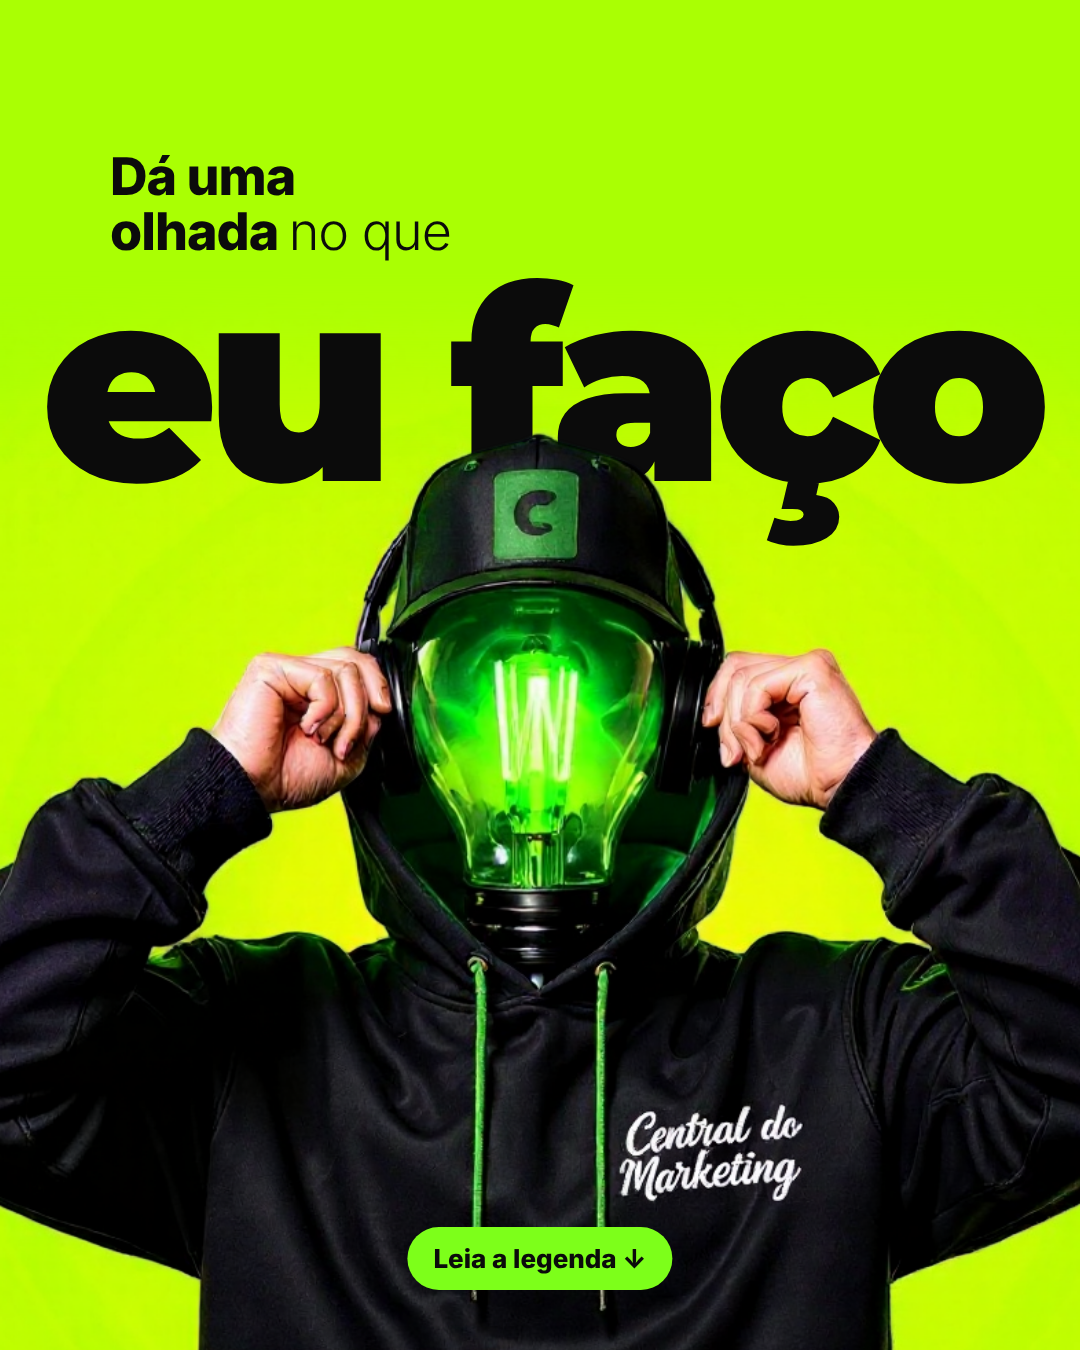
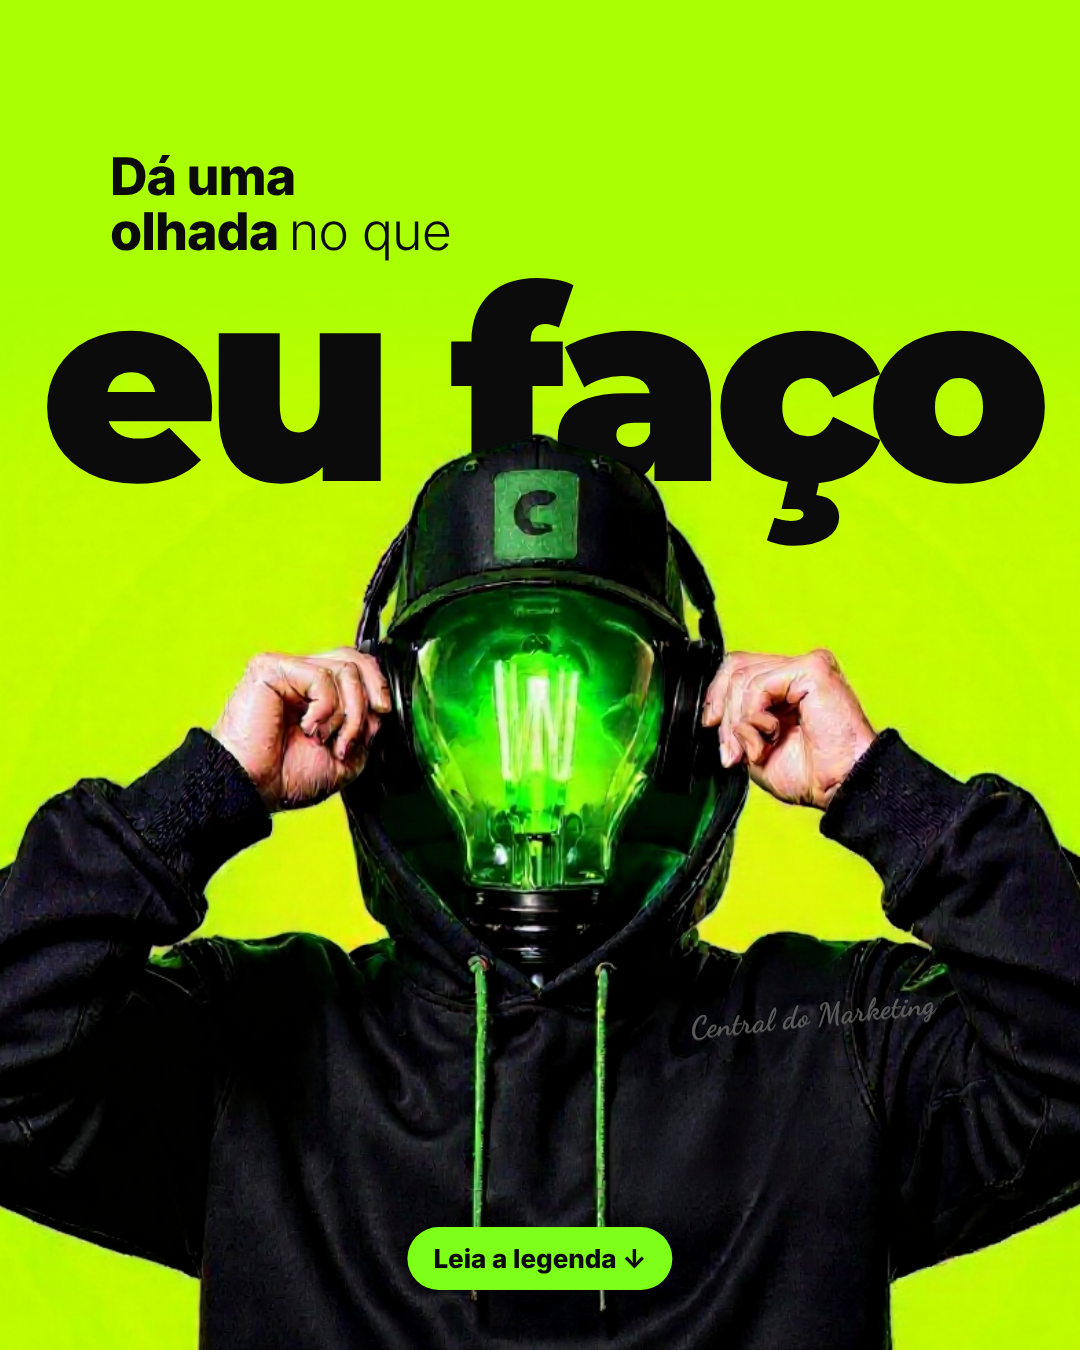
Estático 30: bordado pequeno, alto e cinza tom sobre tom
Claude-Session: https://claude.ai/code/session_017mkQW4f9RfZB1iSbiGkvms

diff --git a/banco/tpl-estatico/layout-30.html b/banco/tpl-estatico/layout-30.html
@@ -17,5 +17,5 @@ body{margin:0}#s{width:1080px;height:1350px;position:relative;overflow:hidden;ba
 .a{position:absolute;left:110px;top:150px;font:800 52px/1.05 I8;color:#0b0b0b;letter-spacing:-1px}.a span{font-family:IL;font-weight:300}
 .b{position:absolute;left:0;right:0;top:250px;text-align:center;font:900 270px/1 M9;letter-spacing:-12px;color:#0b0b0b}
 .cta{background:#7dff1a;color:#0b0b0b}
-</style></head><body><div id=s style="background:#AAFF03"><img src="c30d.png" style="position:absolute;left:-65px;top:270px;width:1210px;-webkit-mask-image:linear-gradient(transparent,#000 200px)"><div class=a>Dá uma<br>olhada <span>no que</span></div><div class=b>eu faço</div><img src="c30d-cut.png" style="position:absolute;left:-65px;top:270px;width:1210px">
-<div class=cta style="bottom:60px;background:#7dff1a;color:#0b0b0b">Leia a legenda ↓</div></div></body></html>
+</style></head><body><div id=s style="background:#AAFF03"><img src="c30g.png" style="position:absolute;left:-65px;top:270px;width:1210px;-webkit-mask-image:linear-gradient(transparent,#000 200px)"><div class=a>Dá uma<br>olhada <span>no que</span></div><div class=b>eu faço</div><img src="c30g-cut.png" style="position:absolute;left:-65px;top:270px;width:1210px">
+<div style="position:absolute;left:690px;top:1000px;font:700 30px/1 S;color:#5a5a5a;transform:rotate(-6deg);z-index:7;text-shadow:0 1px 0 rgba(255,255,255,.18),0 -1px 1px rgba(0,0,0,.8);letter-spacing:.5px">Central do Marketing</div><div class=cta style="bottom:60px;background:#7dff1a;color:#0b0b0b">Leia a legenda ↓</div></div></body></html>

diff --git a/conhecimento/agentes/designer/22-feed-estatico-quebra-de-padrao.md b/conhecimento/agentes/designer/22-feed-estatico-quebra-de-padrao.md
@@ -136,3 +136,4 @@ Arquivos em `banco/tpl-estatico/` (`ref-N`, `layout-N.html`, `teste-N.png`).
 - Testes do zero (A ISCA, Só curtida): o dono viu que o Designer entendeu a ideia, mas ainda não está 100%. Os ajustes vêm com o uso em produção (cada correção vira regra aqui e no Revisor).
 - Os 2 testes do zero NÃO foram aprovados (só para o dono ver). Falta o 'feeling' do dono: mais referências e volume em produção.
 - 30: marca da roupa BORDADA de verdade e pequena no peito (gerada na imagem), nunca texto solto por cima.
+- 30: bordado pequeno, alto no peito (perto do ombro), cinza tom sobre tom, com relevo leve: parece da própria blusa.
